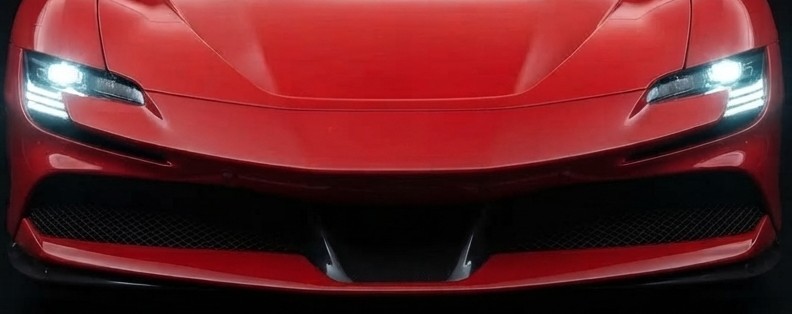
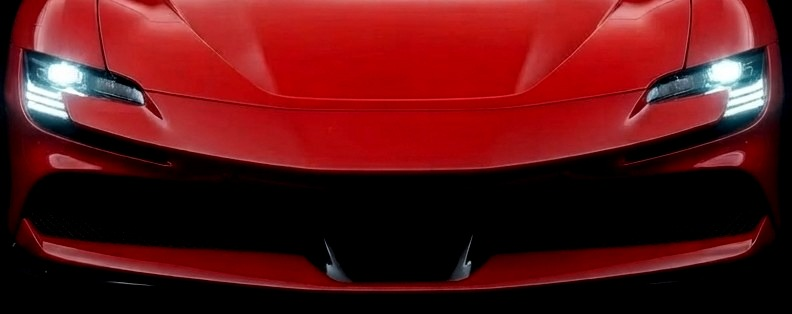
خلفيةٌ سوداءُ كاملة، والحمراءُ توقف دور الفريق لا اللاعب
**الخلفية.** كانت أطرافُ اللوح مُرمَّدةً لا سوداء: قِستُها فإذا هي
٩–٢٣ في المرسومات و٧–٢١ في زوايا فيراري. والسببُ في المرسومات
الدخانُ الواسع فوق الوحدة، وقد أُضيف على هيئة صورةٍ سابقة. فحُذف
الدخانُ كلُّه، وضُيّقت الهالةُ حتى لا تبلغ الأطراف (رأسياً من ١٩٠
إلى ٩٠، وأفقياً من ٣٣٠ إلى ١٤٠)، ونزل تمويهُها من ٥٥ إلى ٣٠.
وأمّا فيراري فرُفعت نقطةُ سواده بمصفوفة لونٍ في System.Drawing
(out = in·k + t، و k = ٢٥٥/٢٢٥). فصارت الأطرافُ صفراً تامّاً في
الأربعَ عشرةَ صورةً المرسومة وفي زوايا فيراري.

**البطاقة الحمراء.** كانت تُخرج اللاعبَ من الجولة فلا يظهر في «من
أجاب؟»، وتوقف دورَ فريقه معاً. فصار الإيقافُ على الفريق وحده:

  · حُذف ترشيحُ isSentOff من award في question.html
  · وصارت isSentOff باسم hasRed: خبرٌ عن البطاقة لا إقصاءٌ بها
  · وصُحّحت نصوصُ النافذة والإشعار

ويبقى الباقي كما كان: خصمُ ٦ من اللاعب، و٣٠٠ من فريقه على اللوحة،
وتجميدُ الفريق دوراً واحداً.

وبُدّلت نسخةُ عامل الخدمة إلى v7 لأن الصور تغيّرت على مسارها.

التحقّق: قِستُ أطرافَ السبعَ عشرةَ صورةً فكلُّ مرسومٍ صفرٌ تامّ،
وجرّبتُ الحمراء على لاعبٍ في فريق فنزلت نقاطُ الفريق ١٠٠←٠ وجُمّد
دورٌ واحد، واللاعبُ باقٍ في members فيظهر في «من أجاب؟». وتَخطّى
nextTurn الفريقَ المجمّد مرةً ثم عاد طبيعياً.

diff --git a/teams.js b/teams.js
@@ -157,7 +157,7 @@
           points: legacy ? 0 : (Number(p.points) || 0),
           total: legacy ? (Number(p.points) || 0) : (Number(p.total) || 0),
           absent: !!p.absent,
-          /* بطاقات الجولة: صفراء (تنبيه وخصم) وحمراء (اللاعب خارج ما بقي من الجولة) */
+          /* بطاقات الجولة: صفراء (تنبيه وخصم) وحمراء (عقوبةٌ على الفريق: خصمٌ وإيقافُ دوره) */
           yellow: Math.max(0, Number(p.yellow) || 0),
           red: !!p.red
         };
@@ -239,11 +239,12 @@
 
   /* ---------- بطاقات اللاعبين ----------
      صفراء: تنبيه وخصم CARD_YELLOW من نقاط اللاعب — وصفراوان تساويان حمراء.
-     حمراء: طردٌ كامل، وأثرها ثلاثة معاً:
+     حمراء: عقوبتها على **الفريق** لا على اللاعب، وأثرها ثلاثة معاً:
               • خصم CARD_RED من نقاط اللاعب نفسه،
               • خصم CARD_RED_TEAM من نقاط **فريقه** على اللوحة،
               • إيقاف دور الفريق: يفقد دوره القادم.
-            واللاعب خارج ما بقي من الجولة فلا يُسأل ولا يأخذ نقاطاً.
+            واللاعب نفسه يبقى في الجولة ويظهر في «من أجاب؟» — الموقوف
+            هو دور الفريق لا اللاعب.
      وصفراوان تصيران حمراء، فيقع أثرها كاملاً عند الصفراء الثانية.
      وعقوبة الفريق تقع **مرة واحدة** عند أول حمراء للاعب لا كلما كُرّرت.
      البطاقات تُمسح مع بدء جولة جديدة مثل نقاط الجولة. */
@@ -288,7 +289,9 @@
     return p ? { yellow: p.yellow, red: p.red } : { yellow: 0, red: false };
   }
 
-  function isSentOff(name) { return !!cardsOf(name).red; }
+  /* عنده حمراء؟ — خبرٌ عن بطاقته فقط. ولا يُقصى به أحدٌ من الجولة:
+     الحمراء توقف دور الفريق لا اللاعب. */
+  function hasRed(name) { return !!cardsOf(name).red; }
 
   /* يعطي اللاعب بطاقة: kind = "yellow" أو "red" — ويعيد حالته بعدها */
   function giveCard(name, kind) {
@@ -474,7 +477,7 @@
     CARD_RED_TEAM: CARD_RED_TEAM,
     cards: cardsOf,
     teamOfPlayer: teamOfPlayer,
-    isSentOff: isSentOff,
+    hasRed: hasRed,
     giveCard: giveCard,
     clearCards: clearCards,
     playerTotal: playerTotal,

diff --git a/SelectSections.html b/SelectSections.html
@@ -852,17 +852,17 @@
 
   /* ---------- بطاقات اللاعبين ----------
      صفراء: تنبيه وخصم من نقاط اللاعب — وصفراوان تساويان حمراء.
-     حمراء: طردٌ كامل — خصم من نقاط اللاعب، وخصم ٣٠٠ من نقاط فريقه على
-            اللوحة، وإيقاف دور الفريق القادم، واللاعب خارج ما بقي من
-            الجولة فلا يظهر في «من أجاب؟». */
-  /* نصّ ما وقع بالحمراء: خصم الفريق وإيقاف دوره وخروج اللاعب.
-     وقد لا يكون اللاعب في فريق، فلا يقع إلا خروجه. */
+     حمراء: عقوبتها على الفريق — خصم من نقاط اللاعب، وخصم ٣٠٠ من نقاط
+            فريقه على اللوحة، وإيقاف دور الفريق القادم. واللاعب نفسه
+            يبقى في الجولة ويظهر في «من أجاب؟». */
+  /* نصّ ما وقع بالحمراء: خصمُ الفريق وإيقافُ دوره.
+     وقد لا يكون اللاعب في فريق، فلا يقع على اللوحة شيء. */
   function redToast(r) {
     if (r && r.team) {
       return '−' + r.teamPenalty + ' من ' + teamLabel(r.team) +
-             '، ويفقد دوره القادم، وخرج اللاعب من الجولة';
+             '، ويفقد ' + teamLabel(r.team) + ' دوره القادم';
     }
-    return 'خرج من الجولة (ليس في فريق، فلا خصم على اللوحة)';
+    return 'ليس في فريق، فلا خصم على اللوحة ولا إيقاف دور';
   }
 
   function pickCard(player) {
@@ -873,7 +873,7 @@
       '<div class="cp"><h5 data-no-i18n></h5>' +
       '<button type="button" class="yellow">🟨 بطاقة صفراء · خصم ' + Teams.CARD_YELLOW + ' من اللاعب</button>' +
       '<button type="button" class="red">🟥 بطاقة حمراء · خصم ' + Teams.CARD_RED_TEAM +
-        ' من الفريق وإيقاف دوره وخروج اللاعب</button>' +
+        ' من الفريق وإيقاف دوره القادم</button>' +
       (c.yellow || c.red ? '<button type="button" class="clear">إزالة بطاقات اللاعب</button>' : '') +
       '<button type="button" class="cancel">إلغاء</button></div>';
     ov.querySelector('h5').textContent = player +

diff --git a/question.html b/question.html
@@ -3144,8 +3144,8 @@
   function award(team){
     /* «امنع الخصم»: الفريق الممنوع لا يأخذ نقاط هذا السؤال */
     if (awarding || (team && team === blockedTeam)) return;
-    /* اللاعب الذي أخذ بطاقة حمراء خارج ما بقي من الجولة — لا يُسأل ولا يأخذ نقاطاً */
-    const mem = team ? Teams.members(team).filter(m => !(Teams.isSentOff && Teams.isSentOff(m))) : [];
+    /* الحمراء توقف دور **الفريق** لا اللاعب، فصاحبُها يبقى في «من أجاب؟» */
+    const mem = team ? Teams.members(team) : [];
     if (!mem.length) { awarding = true; finishAward(team, null); return; }
     pickPlayer(team, mem).then(player => {
       if (player === undefined) return;          /* أُلغيت النافذة — لم يُحتسب شيء بعد */

diff --git a/sw.js b/sw.js
@@ -11,7 +11,7 @@
    عند أي تعديل على قائمة الملفات أو الاستراتيجية: غيّر VERSION.
    ============================================================ */
 
-const VERSION = 'jawabni-v6';
+const VERSION = 'jawabni-v7';
 const SHELL   = VERSION + '-shell';
 const MEDIA   = VERSION + '-media';
 const REMOTE  = VERSION + '-remote';
